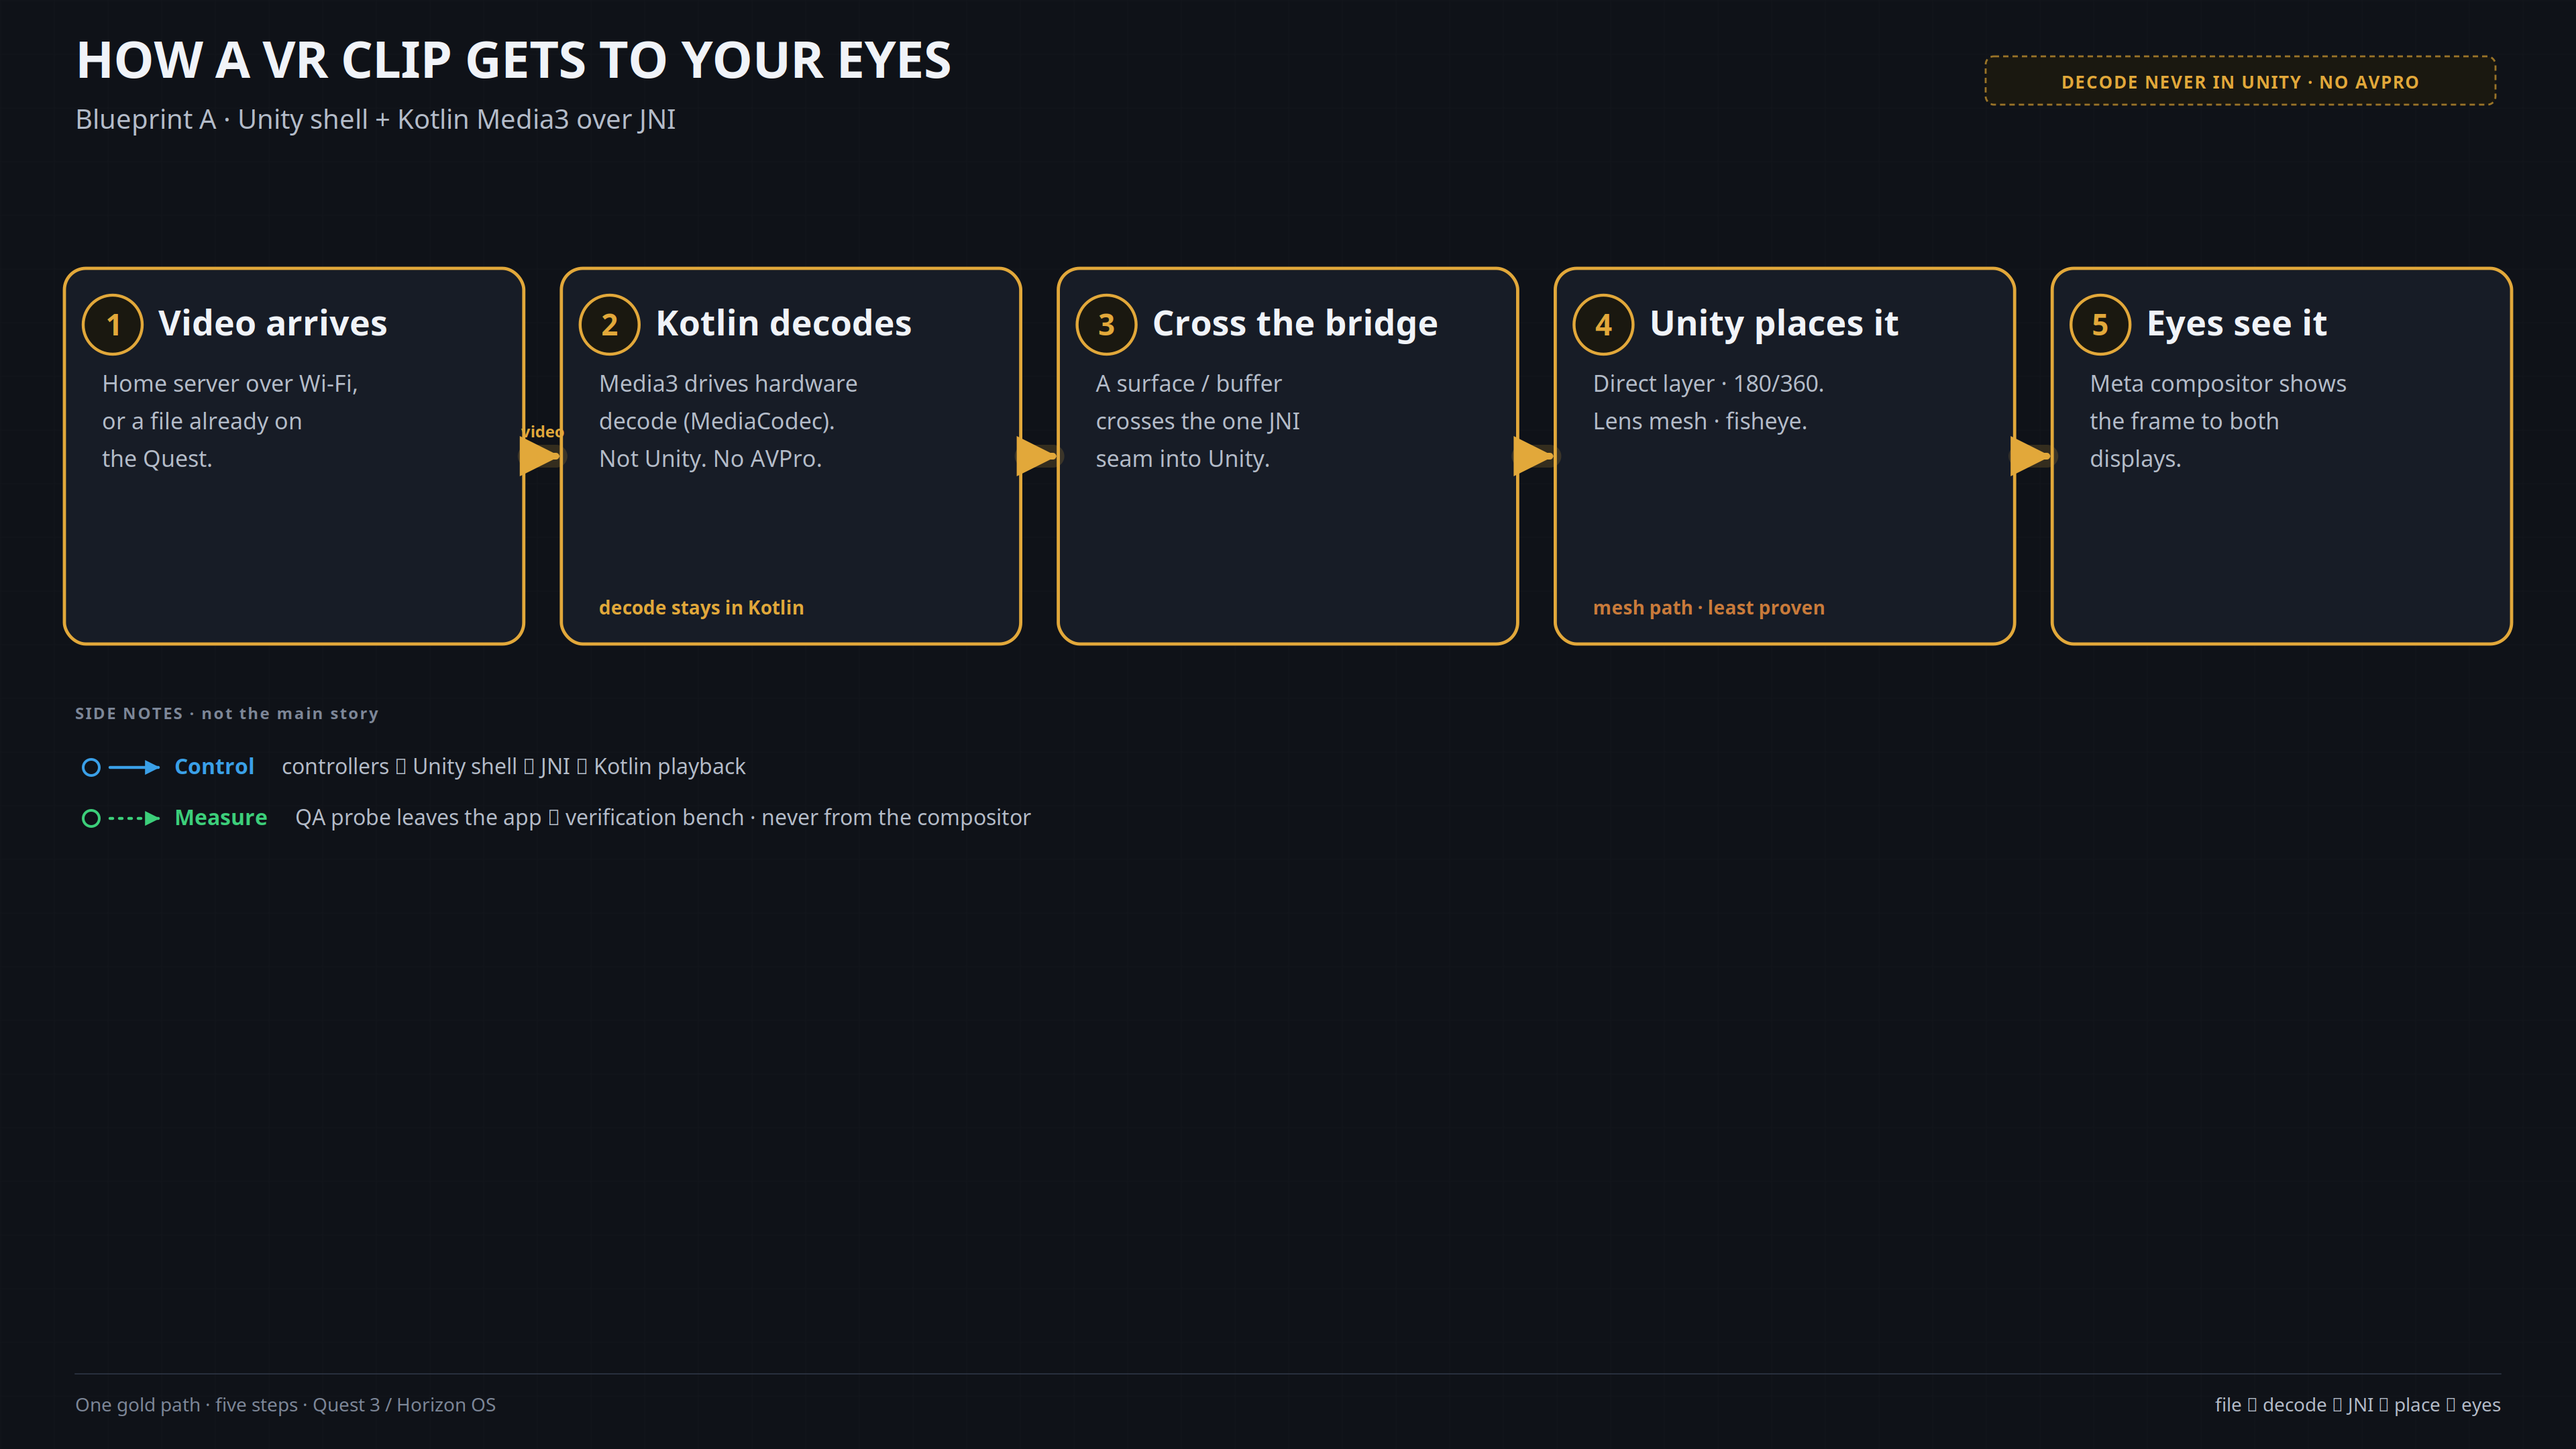
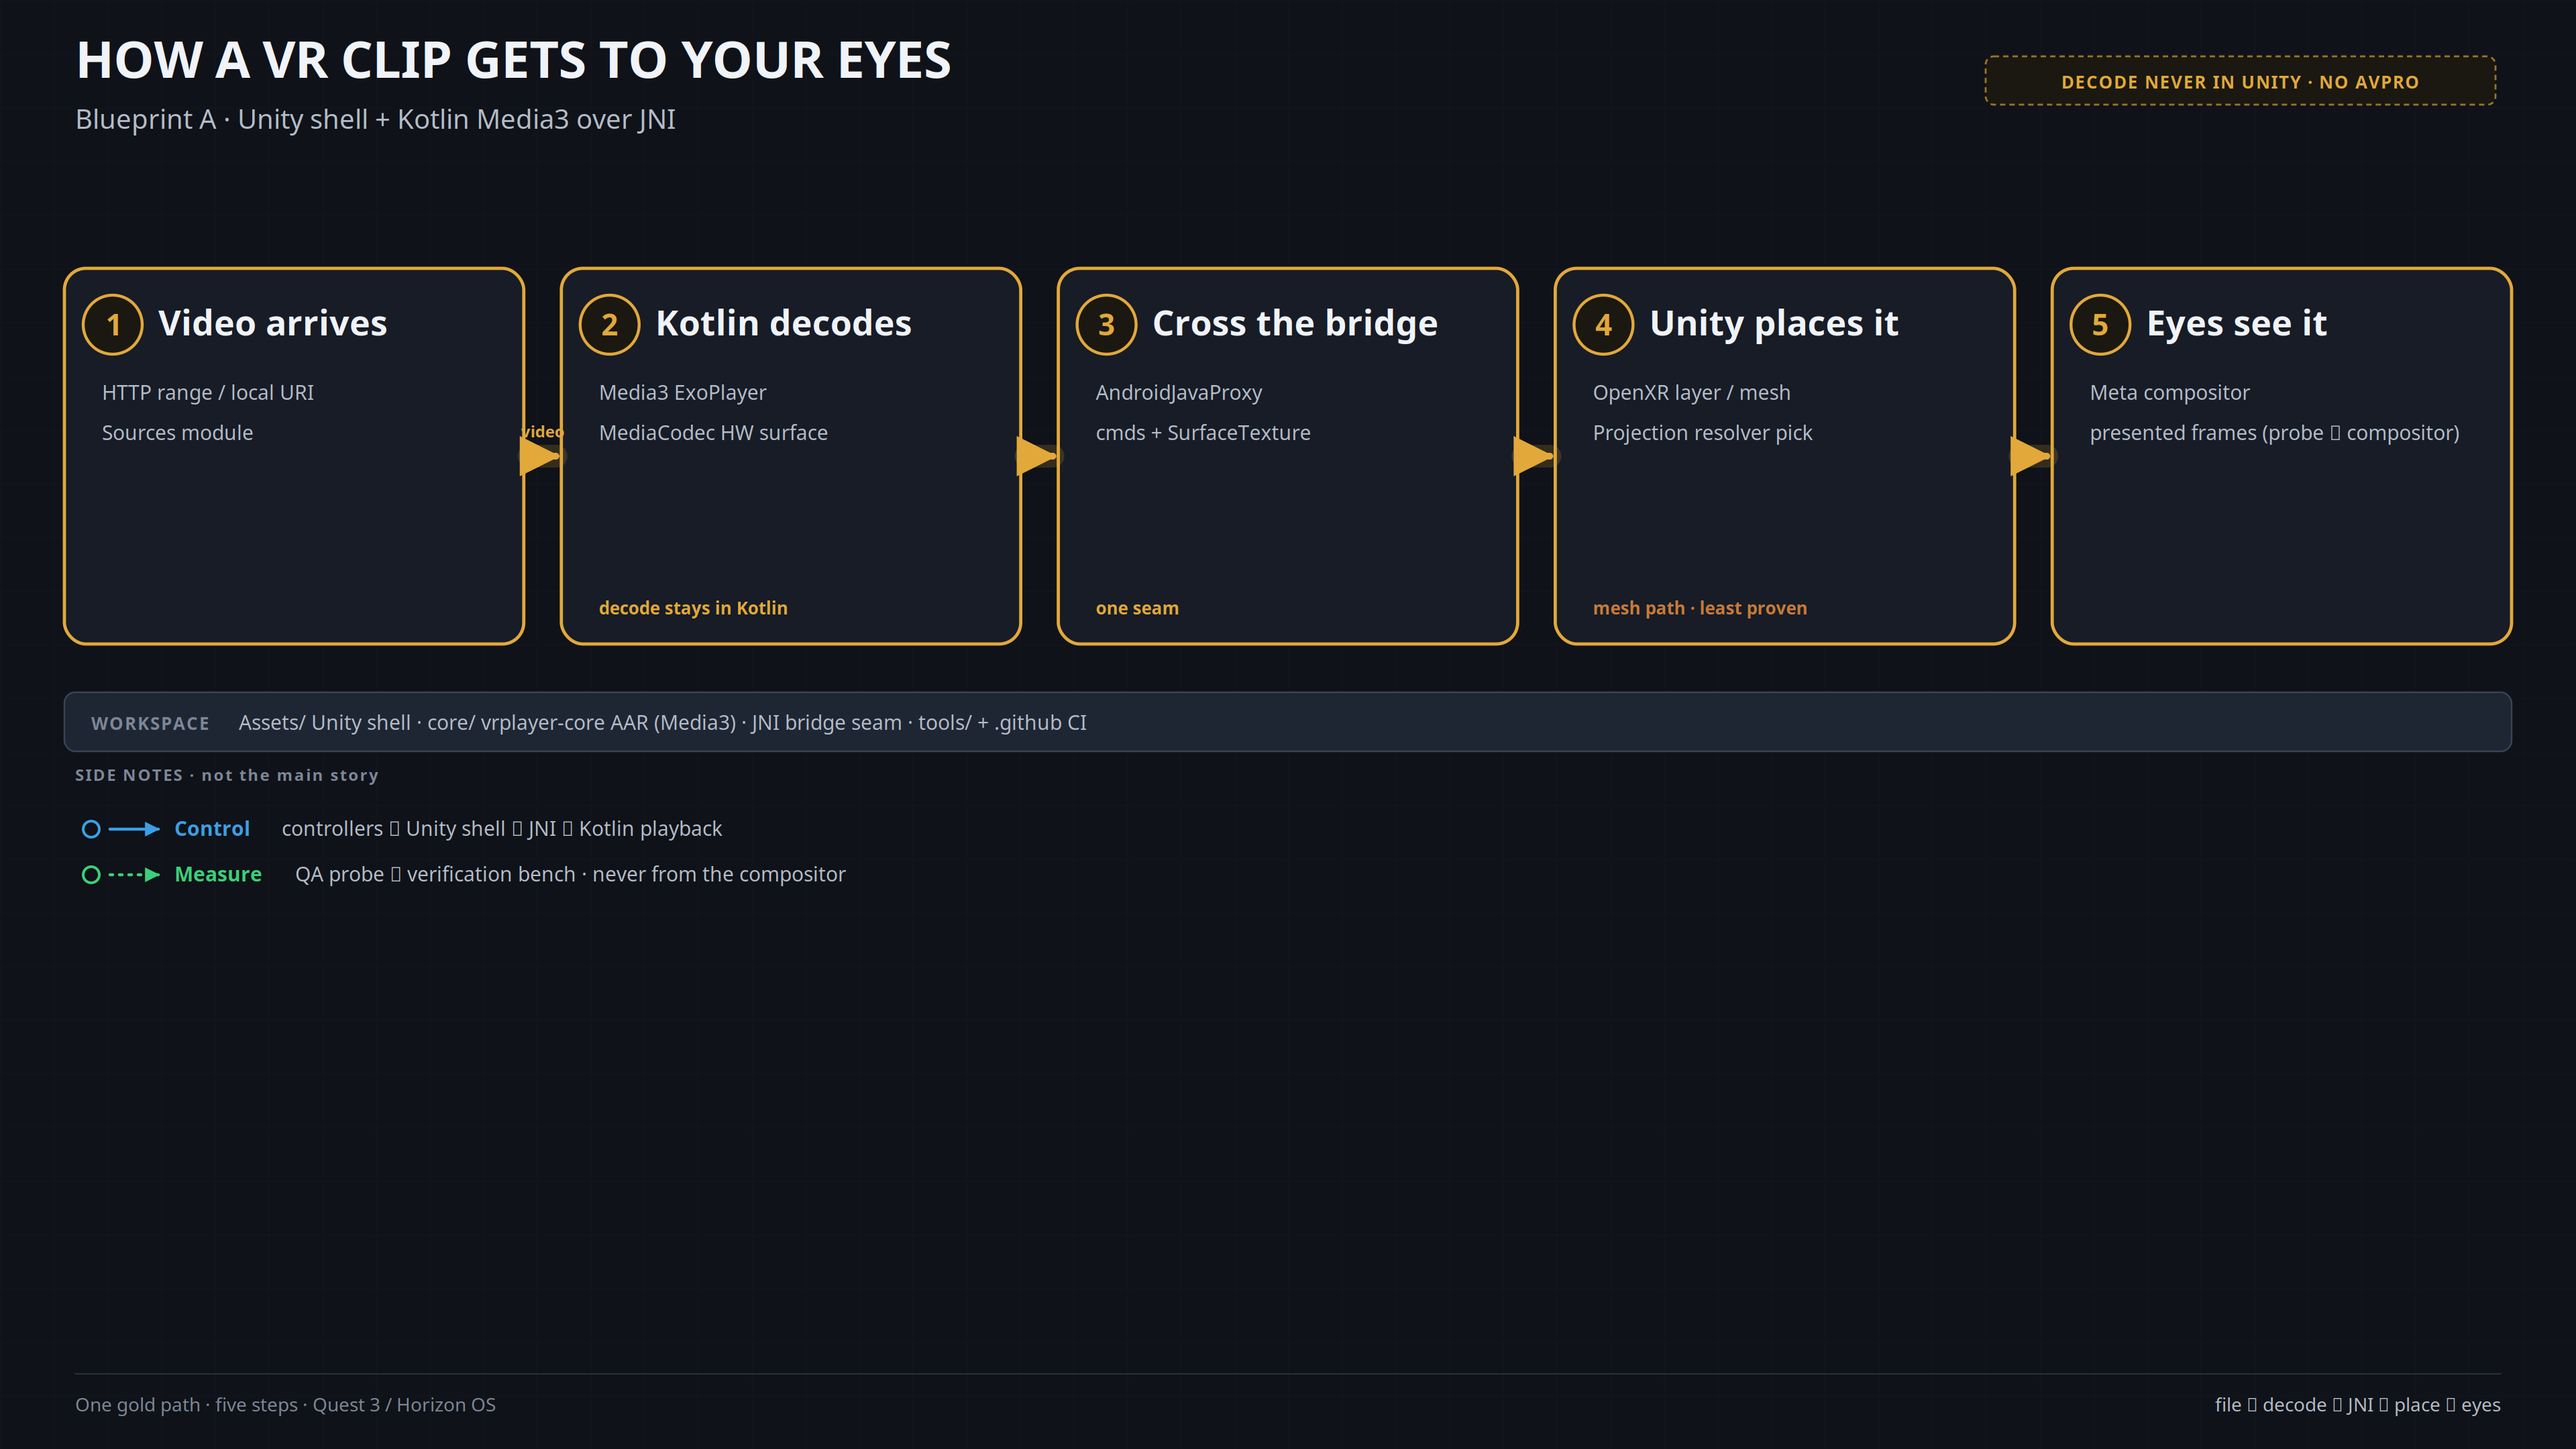
Add short eng labels and workspace strip to story poster
Keep the five-step gold spine; under each step add 1–2 software-dev
lines, a thin WORKSPACE row (Assets/ · core/ · JNI · tools/CI), and
cache-bust the Pages primary image.

diff --git a/index.html b/index.html
@@ -60,7 +60,7 @@
     <p class="sub">Blueprint A · Unity shell + Kotlin Media3 over JNI</p>
     <figure>
       <img
-        src="architecture-diagram.png?v=20261113story"
+        src="architecture-diagram.png?v=20261113eng"
         alt="How a VR clip gets to your eyes: five steps from file through Kotlin decode and JNI into Unity, then Meta compositor"
         width="1920"
         height="1080"
@@ -69,7 +69,7 @@
     </figure>
     <p class="more">
       Prefer containers and trust boundaries?
-      <a href="architecture-diagram-c4.png?v=20261113story">Detailed C4 poster</a>
+      <a href="architecture-diagram-c4.png?v=20261113eng">Detailed C4 poster</a>
       ·
       <a href="tech-stack-diagram.png">Tech stack inventory</a>
     </p>

diff --git a/build-architecture-diagram.py b/build-architecture-diagram.py
@@ -2,6 +2,7 @@
 """vrplayer architecture — one-glance story poster (landscape).
 
 How a VR clip gets to your eyes: five numbered steps on one gold spine.
+Under each step: 1–2 short software-dev lines (not a C4 maze).
 Optional thin control (blue) and measure (green) notes stay subordinate.
 Blueprint A · Unity shell + Kotlin Media3 over JNI. No AVPro.
 """
@@ -178,13 +179,13 @@ def step_box(
     s.text(bx, by + 8, str(num), 22, C["gold"], weight=700, anchor="middle")
     # title
     s.text(x + 70, y + 50, title, 26, C["ink"], weight=700)
-    # body lines
-    ty = y + 92
+    # engineering lines (mono, short)
+    ty = y + 98
     for line in lines:
-        s.text(x + 28, ty, line, 17, C["dim"], weight=500)
-        ty += 28
+        s.text(x + 28, ty, line, 15, C["dim"], weight=500, mono=True)
+        ty += 30
     if note:
-        s.text(x + 28, y + h - 22, note, 14, note_color or C["warn"], weight=650, mono=True)
+        s.text(x + 28, y + h - 22, note, 13, note_color or C["warn"], weight=650, mono=True)
     return x, x + w, y + h / 2, x + w / 2
 
 
@@ -230,9 +231,8 @@ def build() -> None:
     s.text(1670, 66, "DECODE NEVER IN UNITY · NO AVPRO", 13, C["gold"], weight=700, anchor="middle", mono=True, ls=0.8)
 
     # ---- Five steps on one row ----
-    # Layout: 5 boxes with gold arrows between them
     margin_x = 48
-    gap = 28  # space for arrow between boxes
+    gap = 28
     n = 5
     usable = W - 2 * margin_x - (n - 1) * gap
     box_w = usable / n
@@ -240,21 +240,20 @@ def build() -> None:
     box_y = 200
     spine_y = box_y + box_h / 2
 
+    # Titles unchanged; under each: ≤2 short eng lines. Notes stay thin.
     steps = [
         {
             "title": "Video arrives",
             "lines": [
-                "Home server over Wi-Fi,",
-                "or a file already on",
-                "the Quest.",
+                "HTTP range / local URI",
+                "Sources module",
             ],
         },
         {
             "title": "Kotlin decodes",
             "lines": [
-                "Media3 drives hardware",
-                "decode (MediaCodec).",
-                "Not Unity. No AVPro.",
+                "Media3 ExoPlayer",
+                "MediaCodec HW surface",
             ],
             "note": "decode stays in Kotlin",
             "note_color": C["gold"],
@@ -262,16 +261,17 @@ def build() -> None:
         {
             "title": "Cross the bridge",
             "lines": [
-                "A surface / buffer",
-                "crosses the one JNI",
-                "seam into Unity.",
+                "AndroidJavaProxy",
+                "cmds + SurfaceTexture",
             ],
+            "note": "one seam",
+            "note_color": C["gold"],
         },
         {
             "title": "Unity places it",
             "lines": [
-                "Direct layer · 180/360.",
-                "Lens mesh · fisheye.",
+                "OpenXR layer / mesh",
+                "Projection resolver pick",
             ],
             "note": "mesh path · least proven",
             "note_color": C["warn"],
@@ -279,9 +279,8 @@ def build() -> None:
         {
             "title": "Eyes see it",
             "lines": [
-                "Meta compositor shows",
-                "the frame to both",
-                "displays.",
+                "Meta compositor",
+                "presented frames (probe ≠ compositor)",
             ],
         },
     ]
@@ -315,36 +314,58 @@ def build() -> None:
             marker="mg",
             glow=True,
         )
-        # tiny step connector label on first arrow only
         if i == 0:
             s.text(mid, spine_y - 14, "video", 12, C["gold"], weight=700, anchor="middle", mono=True)
 
-    # ---- Thin subordinate notes (not peers of the spine) ----
-    rail_y = box_y + box_h + 78
+    # ---- Thin workspace strip (how we build — not a second diagram) ----
+    strip_y = box_y + box_h + 36
+    s.rect(48, strip_y, W - 96, 44, fill=C["panel_hi"], stroke=C["line"], sw=1.2, rx=8)
+    s.text(
+        68,
+        strip_y + 28,
+        "WORKSPACE",
+        13,
+        C["muted"],
+        weight=700,
+        mono=True,
+        ls=1.0,
+    )
+    s.text(
+        178,
+        strip_y + 28,
+        "Assets/ Unity shell  ·  core/ vrplayer-core AAR (Media3)  ·  JNI bridge seam  ·  tools/ + .github CI",
+        15,
+        C["dim"],
+        weight=500,
+        mono=True,
+    )
+
+    # ---- Thin subordinate footnotes (not peers of the spine) ----
+    rail_y = strip_y + 88
     s.text(56, rail_y - 22, "SIDE NOTES · not the main story", 12, C["muted"], weight=700, mono=True, ls=1.2)
 
     c_y = rail_y + 14
     s.circle(68, c_y, 6, fill=C["bg"], stroke=C["control"], sw=2)
     s.path(f"M82 {c_y} H118", C["control"], 2.2, marker="mc")
-    s.text(130, c_y + 5, "Control", 16, C["control"], weight=700)
+    s.text(130, c_y + 5, "Control", 15, C["control"], weight=700)
     s.text(
         210,
         c_y + 5,
         "controllers → Unity shell → JNI → Kotlin playback",
-        16,
+        15,
         C["dim"],
         weight=500,
     )
 
-    m_y = rail_y + 52
+    m_y = rail_y + 48
     s.circle(68, m_y, 6, fill=C["bg"], stroke=C["measure"], sw=2)
     s.path(f"M82 {m_y} H118", C["measure"], 2.2, dash="2 5", marker="mm")
-    s.text(130, m_y + 5, "Measure", 16, C["measure"], weight=700)
+    s.text(130, m_y + 5, "Measure", 15, C["measure"], weight=700)
     s.text(
         220,
         m_y + 5,
-        "QA probe leaves the app → verification bench  ·  never from the compositor",
-        16,
+        "QA probe → verification bench  ·  never from the compositor",
+        15,
         C["dim"],
         weight=500,
     )

diff --git a/README.md b/README.md
@@ -2,7 +2,7 @@
 
 How a VR clip gets to your eyes — Blueprint A story poster.
 
-Primary: five-step gold path (file → decode → JNI → place → eyes).
+Primary: five-step gold path (file → decode → JNI → place → eyes) with short eng labels + thin workspace strip.
 Secondary: dense C4 container poster + tech-stack inventory.
 
 Site: https://pegasus-vr.github.io/vrplayer-architecture/
